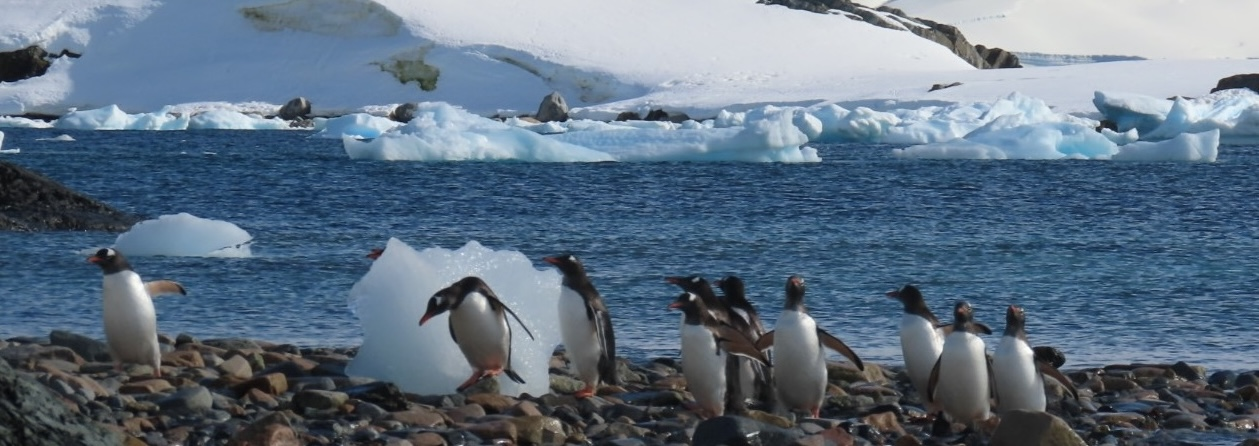
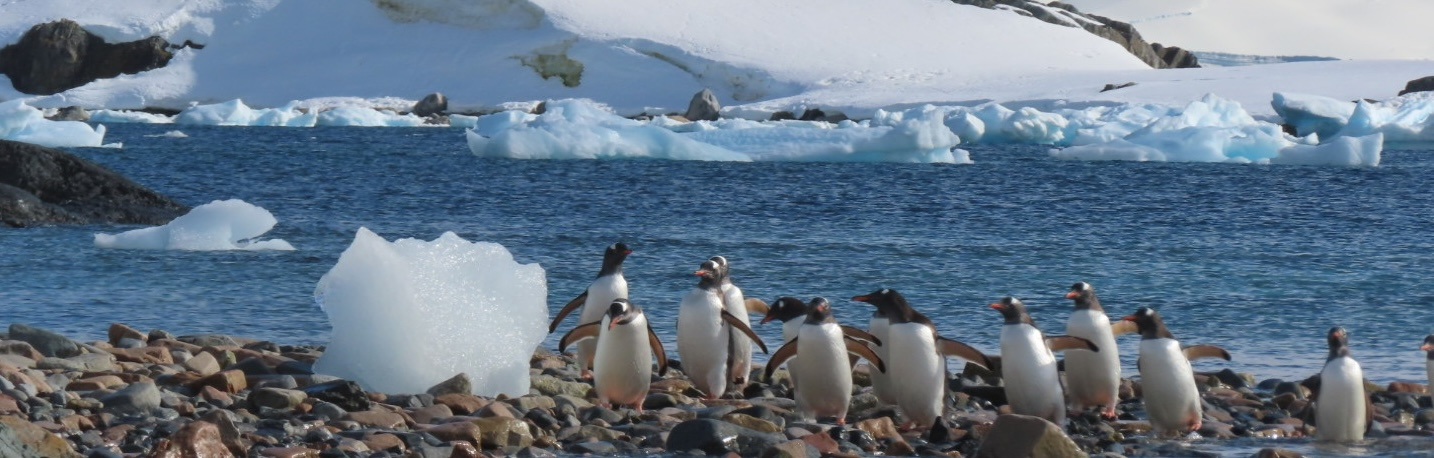
replaced home image

diff --git a/home.html b/home.html
@@ -3,15 +3,8 @@
     <div class="hero-content text-center">
       <h1 class="hero-title">Explore the World with Globetrotting Kirks</h1>
       <p class="hero-p">
-        A globetrotting mother-daughter duo bringing you unforgettable travel
-        experiences
+        Enjoy extraordinary experiences designed by this mother-daughter dynamic duo 
       </p>
-      <a
-        href="#specials.html"
-        onclick="loadPage('specials.html')"
-        class="btn btn-warning btn-lg"
-        >View Specials</a
-      >
     </div>
   </div>
 
